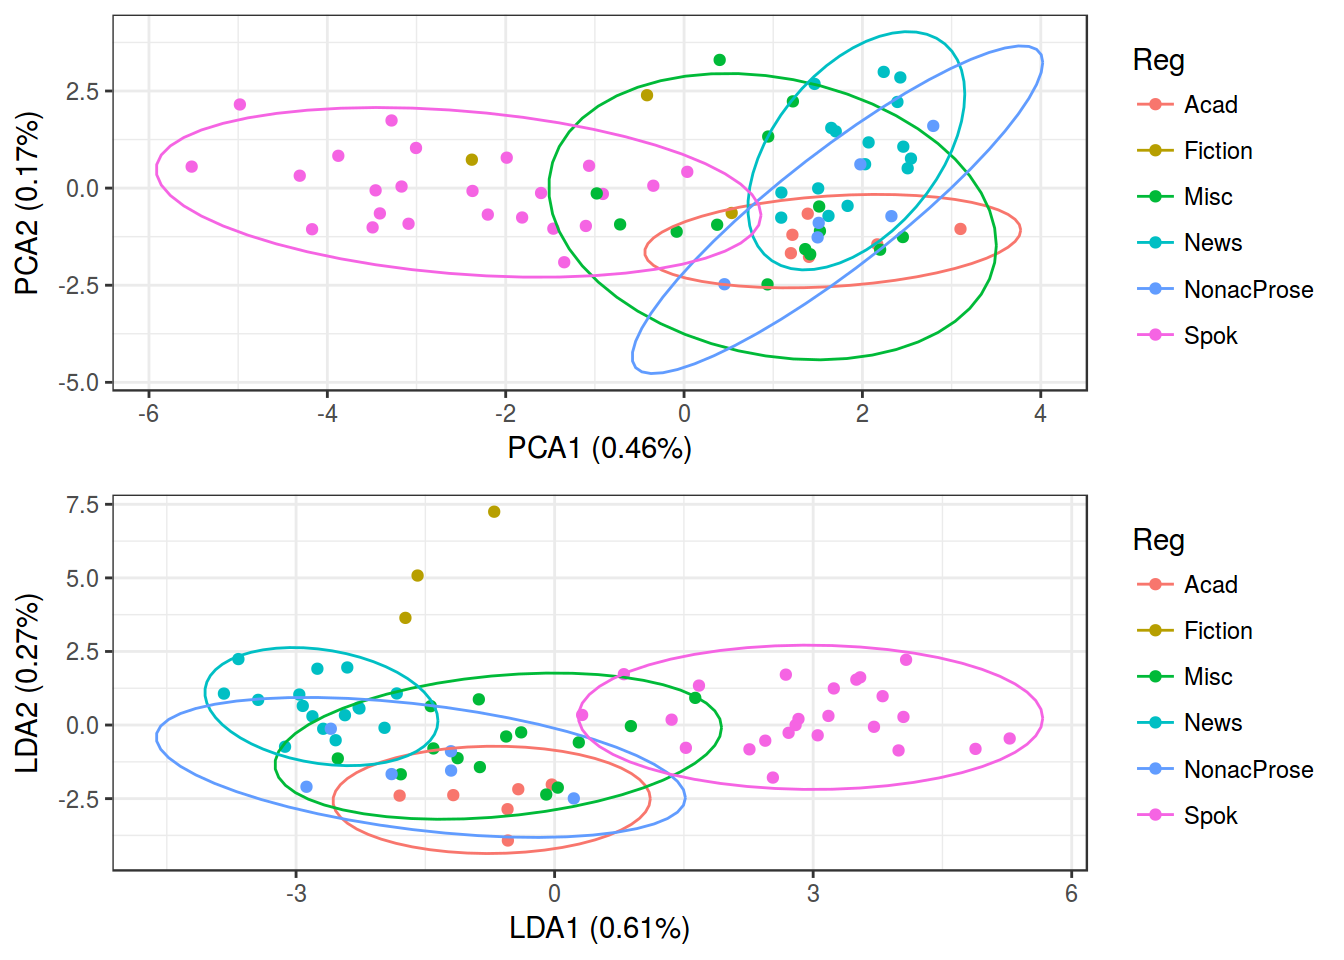
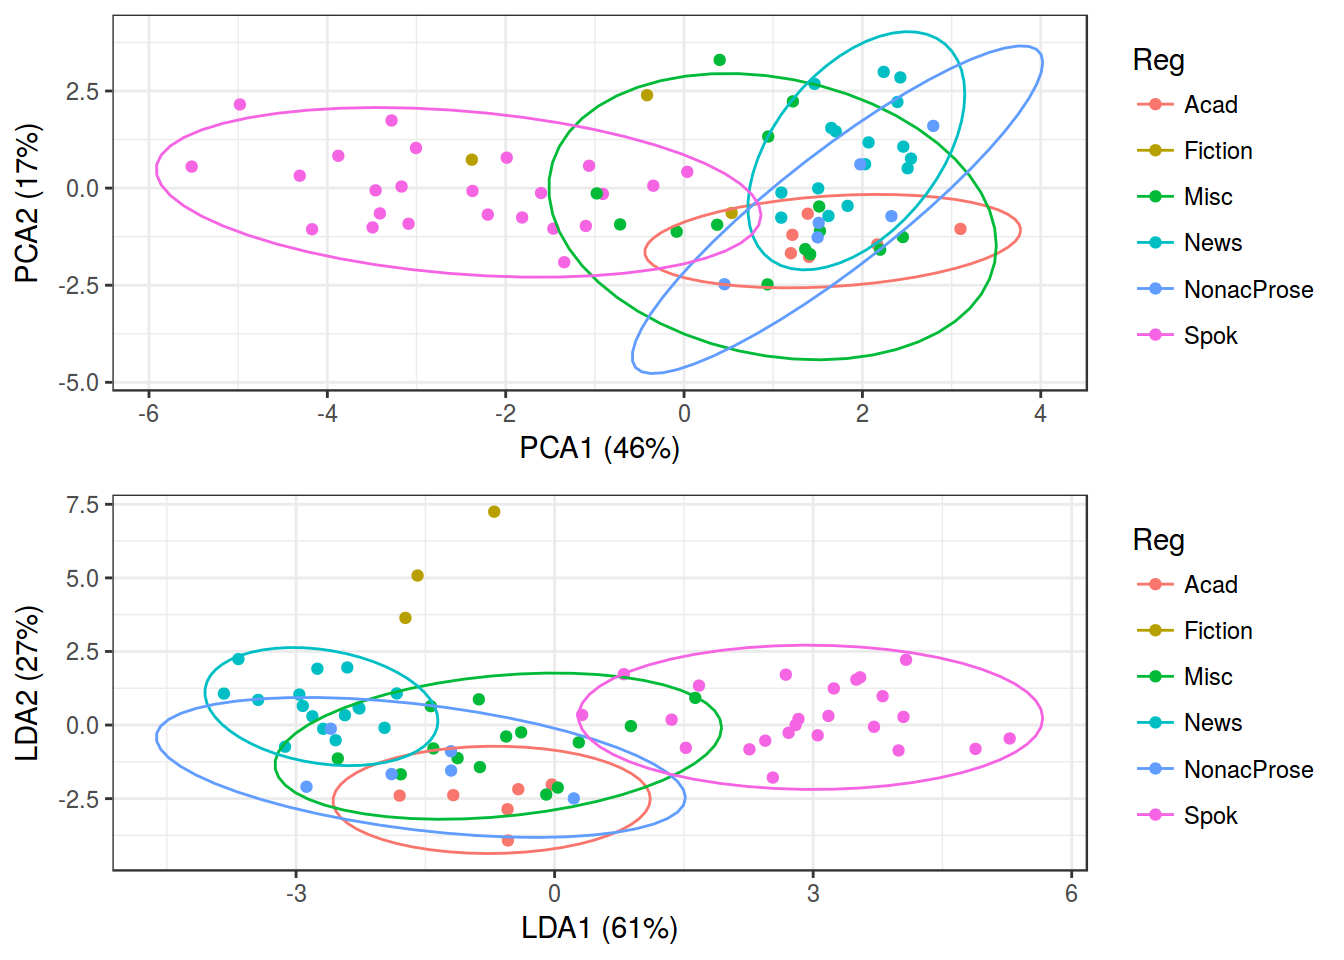
add 5. lecture

diff --git a/docs/5_PCA.html b/docs/5_PCA.html
@@ -829,12 +829,12 @@ gridExtra<span class="op">::</span><span class="kw">grid.arrange</span>(p1, p2, 
 ## Cumulative Proportion  0.96911 0.98217 0.99206 1.00000</code></pre>
 <div class="sourceCode"><pre class="sourceCode r"><code class="sourceCode r">prop.pca &lt;-<span class="st"> </span><span class="kw">paste0</span>(<span class="kw">c</span>(<span class="st">&quot;PCA1 &quot;</span>, <span class="st">&quot;PCA2 &quot;</span>),
                    <span class="st">&quot;(&quot;</span>,
-                   <span class="kw">round</span>(pca<span class="op">$</span>sdev<span class="op">^</span><span class="dv">2</span><span class="op">/</span><span class="kw">sum</span>(pca<span class="op">$</span>sdev<span class="op">^</span><span class="dv">2</span>), <span class="dv">2</span>), 
+                   <span class="kw">round</span>(pca<span class="op">$</span>sdev<span class="op">^</span><span class="dv">2</span><span class="op">/</span><span class="kw">sum</span>(pca<span class="op">$</span>sdev<span class="op">^</span><span class="dv">2</span>), <span class="dv">2</span>)<span class="op">*</span><span class="dv">100</span>, 
                    <span class="st">&quot;%)&quot;</span>)
 prop.pca</code></pre></div>
-<pre><code>##  [1] &quot;PCA1 (0.46%)&quot; &quot;PCA2 (0.17%)&quot; &quot;PCA1 (0.13%)&quot; &quot;PCA2 (0.07%)&quot;
-##  [5] &quot;PCA1 (0.06%)&quot; &quot;PCA2 (0.04%)&quot; &quot;PCA1 (0.03%)&quot; &quot;PCA2 (0.02%)&quot;
-##  [9] &quot;PCA1 (0.01%)&quot; &quot;PCA2 (0.01%)&quot; &quot;PCA1 (0.01%)&quot;</code></pre>
+<pre><code>##  [1] &quot;PCA1 (46%)&quot; &quot;PCA2 (17%)&quot; &quot;PCA1 (13%)&quot; &quot;PCA2 (7%)&quot;  &quot;PCA1 (6%)&quot; 
+##  [6] &quot;PCA2 (4%)&quot;  &quot;PCA1 (3%)&quot;  &quot;PCA2 (2%)&quot;  &quot;PCA1 (1%)&quot;  &quot;PCA2 (1%)&quot; 
+## [11] &quot;PCA1 (1%)&quot;</code></pre>
 <p>Применим LDA:</p>
 <div class="sourceCode"><pre class="sourceCode r"><code class="sourceCode r">lda &lt;-<span class="st"> </span>MASS<span class="op">::</span><span class="kw">lda</span>(Reg <span class="op">~</span><span class="st"> </span>., reg_bnc) <span class="co"># точка здесь означает все остальные переменные</span>
 lda</code></pre></div>
@@ -887,11 +887,10 @@ lda</code></pre></div>
 ## 0.6095 0.2670 0.0782 0.0419 0.0034</code></pre>
 <div class="sourceCode"><pre class="sourceCode r"><code class="sourceCode r">prop.lda &lt;-<span class="st"> </span><span class="kw">paste0</span>(<span class="kw">c</span>(<span class="st">&quot;LDA1 &quot;</span>, <span class="st">&quot;LDA2 &quot;</span>),
                    <span class="st">&quot;(&quot;</span>,
-                   <span class="kw">round</span>(lda<span class="op">$</span>svd<span class="op">^</span><span class="dv">2</span><span class="op">/</span><span class="kw">sum</span>(lda<span class="op">$</span>svd<span class="op">^</span><span class="dv">2</span>), <span class="dv">2</span>), 
+                   <span class="kw">round</span>(lda<span class="op">$</span>svd<span class="op">^</span><span class="dv">2</span><span class="op">/</span><span class="kw">sum</span>(lda<span class="op">$</span>svd<span class="op">^</span><span class="dv">2</span>), <span class="dv">2</span>)<span class="op">*</span><span class="dv">100</span>, 
                    <span class="st">&quot;%)&quot;</span>)
 prop.lda</code></pre></div>
-<pre><code>## [1] &quot;LDA1 (0.61%)&quot; &quot;LDA2 (0.27%)&quot; &quot;LDA1 (0.08%)&quot; &quot;LDA2 (0.04%)&quot;
-## [5] &quot;LDA1 (0%)&quot;</code></pre>
+<pre><code>## [1] &quot;LDA1 (61%)&quot; &quot;LDA2 (27%)&quot; &quot;LDA1 (8%)&quot;  &quot;LDA2 (4%)&quot;  &quot;LDA1 (0%)&quot;</code></pre>
 <div class="sourceCode"><pre class="sourceCode r"><code class="sourceCode r">plda &lt;-<span class="st"> </span><span class="kw">predict</span>(<span class="dt">object =</span> lda, <span class="dt">newdata =</span> reg_bnc)</code></pre></div>
 <p>Соединим все в один датасет:</p>
 <div class="sourceCode"><pre class="sourceCode r"><code class="sourceCode r">dataset &lt;-<span class="st"> </span><span class="kw">data.frame</span>(<span class="dt">Reg =</span> reg_bnc[,<span class="st">&quot;Reg&quot;</span>],
